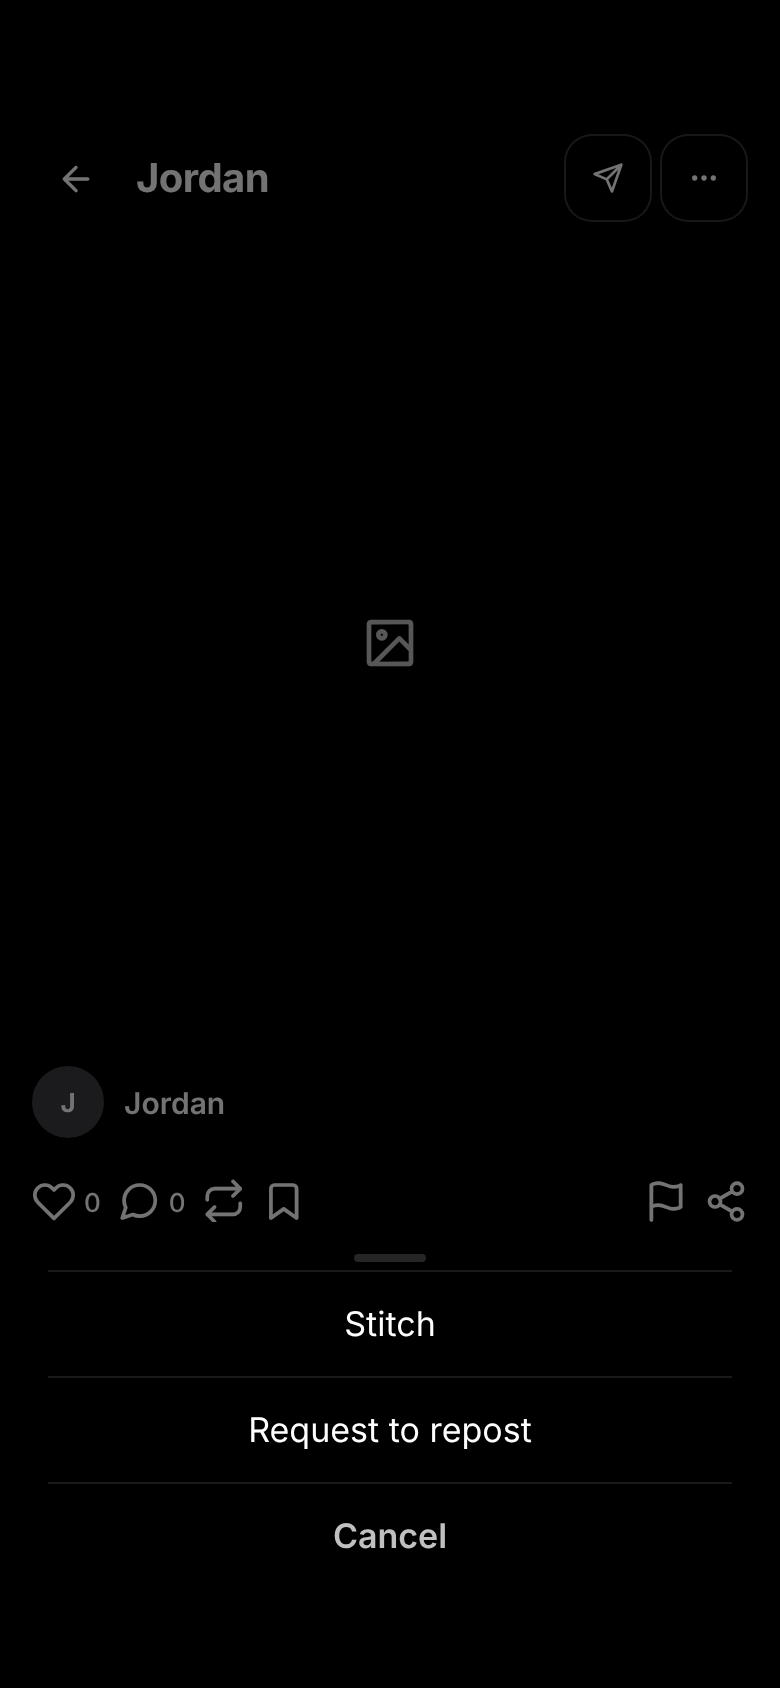
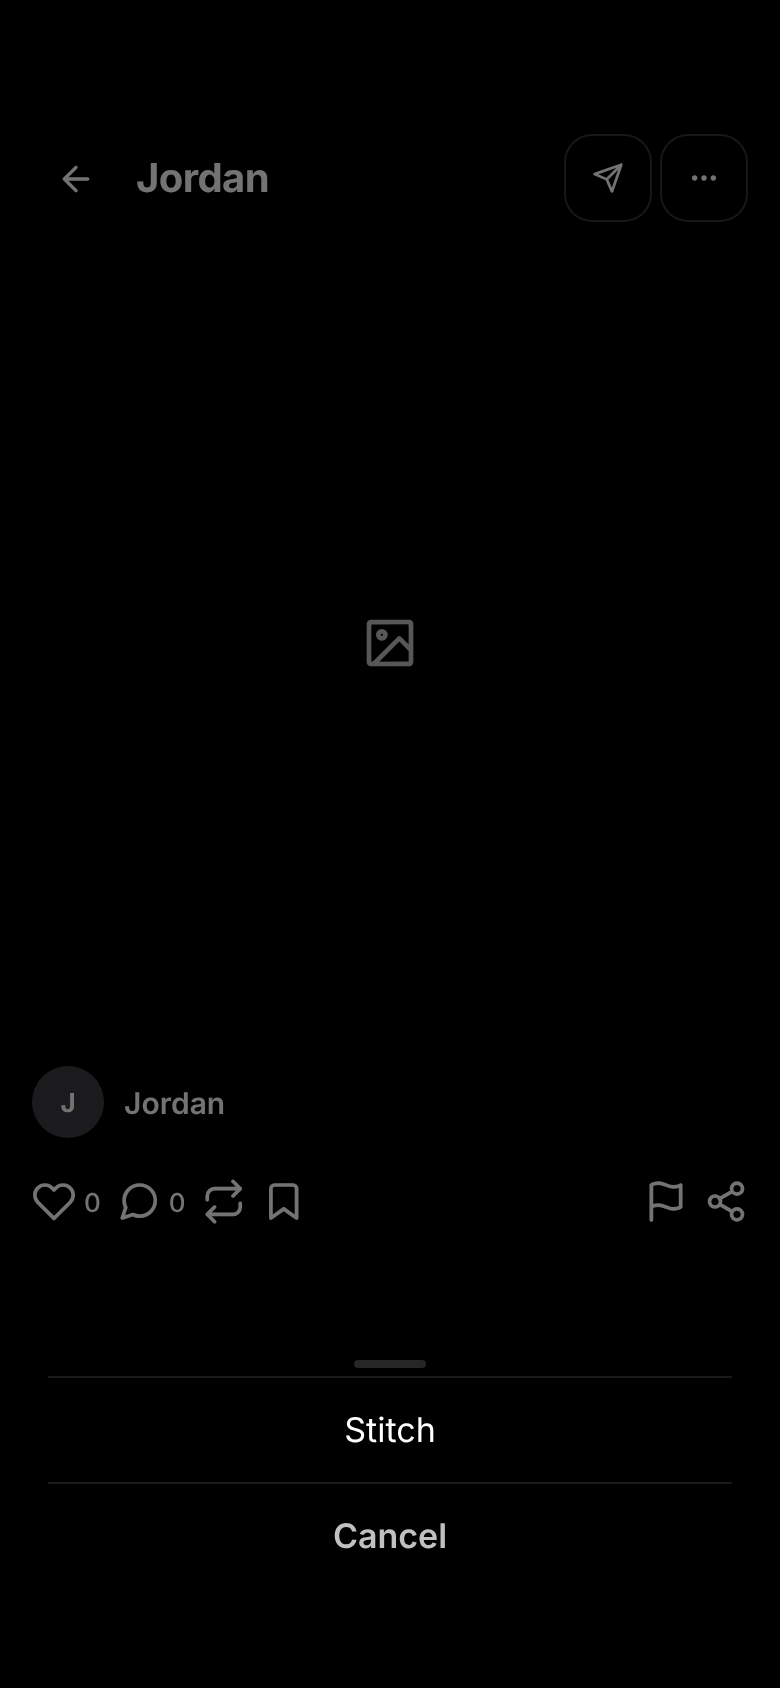
Fits: preview demo check at tap time; screenshot routes for repost eligibility
Claude-Session: https://claude.ai/code/session_01Muf8ZKCWRoVCeadctDVqcc

Changed region(s): [[0.3077, 0.7393, 0.6769, 0.8626]]

diff --git a/artifacts/mobile/components/social/PostFits.tsx b/artifacts/mobile/components/social/PostFits.tsx
@@ -44,10 +44,7 @@ export function usePostFits({ postId, isOwner }: {
     if (!valid || !postId) return;
     fitsService.stitch(postId).then((r) => { if (!cancelled) setStitch(r.stitch); }).catch(() => { if (!cancelled) setStitch(null); });
     fitsService.fitCheck(postId).then((r) => { if (!cancelled) setProduct(r.fitCheck.product); }).catch(() => { if (!cancelled) setProduct(null); });
-    if (brandViewer && isSellerDevPreview()) {
-      // The signed-out seller preview makes no API calls; only its demo dataset shows the item.
-      setRepostEligible(isPreviewDemoMode());
-    } else if (brandViewer) {
+    if (brandViewer && !isSellerDevPreview()) {
       fitsService.repostEligibility(postId)
         .then((r) => { if (!cancelled) { setRepostEligible(r.eligible); setRequest(r.request); } })
         .catch(() => { if (!cancelled) setRepostEligible(false); });
@@ -74,7 +71,10 @@ export function usePostFits({ postId, isOwner }: {
         buttons.push({ text: 'Tag product', onPress: tag });
       }
     }
-    if (brandViewer && repostEligible && request?.status !== 'approved' && request?.status !== 'declined') {
+    // The signed-out seller preview makes no API calls; there only its demo dataset
+    // (read at tap time — the web URL settles after mount) shows the item.
+    const eligible = isSellerDevPreview() ? isPreviewDemoMode() : repostEligible;
+    if (brandViewer && eligible && request?.status !== 'approved' && request?.status !== 'declined') {
       if (request?.status === 'pending') {
         buttons.push({
           text: 'Withdraw repost request',

diff --git a/artifacts/mobile/tests/fits.test.ts b/artifacts/mobile/tests/fits.test.ts
@@ -46,7 +46,8 @@ describe('fits helpers', () => {
   it('shows "Request to repost" only when the server says the post is eligible', () => {
     const hook = read('components/social/PostFits.tsx');
     expect(hook).toContain('fitsService.repostEligibility(postId)');
-    expect(hook).toContain('brandViewer && repostEligible');
+    expect(hook).toContain("const eligible = isSellerDevPreview() ? isPreviewDemoMode() : repostEligible;");
+    expect(hook).toContain('brandViewer && eligible');
     expect(hook).not.toContain('authorAccountType');
     expect(read('services/fitsService.ts')).toContain('/repost-eligibility');
   });

diff --git a/docs/pr-assets/fits/PR_BODY.md b/docs/pr-assets/fits/PR_BODY.md
@@ -49,6 +49,7 @@ All screenshots of our screens are in `docs/pr-assets/fits/ours/`.
     - `GET /api/products/:id/fit-checks` returns published posts only. It respects blocks in both directions and private accounts (followers only), and hides authors who are suspended or deleted.
   - Repost requests:
     - `POST /repost-requests` is brands only and for visible buyer posts only. Repeat taps are idempotent. A declined request can't be re-sent.
+    - `GET /posts/:postId/repost-eligibility` decides whether the ••• menu offers "Request to repost". It returns `eligible: true` only when the caller is a brand, the post is published and visible to them (blocks, private accounts, friends-only buyer posts), the author is a buyer, and it isn't their own post. It also returns the latest request state. `POST /repost-requests` keeps its `NOT_A_BUYER_POST` check as a backstop.
     - `GET /repost-requests/:id` (owner or requester), `GET /repost-requests/status?postId=`.
     - `POST /:id/respond` (owner: approve or decline) and `POST /:id/cancel` (requester). Both use a conditional update, so a request is answered at most once.
     - Approving writes the brand's `interactions` repost row and notifies the brand.
@@ -59,7 +60,7 @@ All screenshots of our screens are in `docs/pr-assets/fits/ours/`.
 - `app/fit-check-product.tsx`: the "Tag product" picker, listing verified purchases with search.
 - `app/repost-request.tsx`: Review → Approve / Decline sheet.
 - `components/products/FitChecksStrip.tsx`: the "Fit checks" row on the product page. It renders nothing when there are none.
-- `components/social/PostFits.tsx`: the post viewer's ••• menu (Stitch / Tag product / Change / Remove product / Request to repost / Withdraw) plus the "Stitch with @user" attribution and the "Fit check · product" chip.
+- `components/social/PostFits.tsx`: the post viewer's ••• menu (Stitch / Tag product / Change / Remove product / Request to repost / Withdraw) plus the "Stitch with @user" attribution and the "Fit check · product" chip. "Request to repost" shows only when the server's repost-eligibility check says yes; the client never guesses the author type. The signed-out seller web preview makes no API calls, so there the item appears only in its `&demo=1` dataset.
 - `services/fitsService.ts` (via `serviceRequest`) and `lib/fits.ts` (pure helpers).
 
 ## Touches existing UI
@@ -79,15 +80,16 @@ None. No new keys and no paid APIs. The signed-out web preview makes only public
 
 ## Tests
 
-- `cd artifacts/api-server && TEST_DATABASE_URL=postgres://postgres:postgres@127.0.0.1:5432/bt_test_fits2 pnpm exec vitest run src/lib/fitsRules.test.ts src/routes/__tests__/fits.integration.test.ts` gives **24/24 passed**. The integration tests cover:
+- `cd artifacts/api-server && TEST_DATABASE_URL=postgres://postgres:postgres@127.0.0.1:5432/bt_test_fits2 pnpm exec vitest run src/lib/fitsRules.test.ts src/routes/__tests__/fits.integration.test.ts` gives **25/25 passed**. The integration tests cover:
   - Purchase verification: bought, not bought, refunded, cancelled.
   - Ownership: link, unlink, buyers only.
   - Visibility: blocks both ways, private account vs follower, drafts hidden, friends-only buyer posts stay hidden.
   - Stitch: allowReposts, clip, link window, double link, attribution after the original is deleted.
+  - Repost eligibility: brand + visible buyer post → eligible, carrying the latest request state. Not eligible: buyers, brand posts, own posts, friends-only buyer posts, blocked brands. Signed out → 401.
   - Permission flow: brand repost and quote blocked before approval; request → notification → approve → repost row; per-brand approval; approval works with `allowReposts=false`; decline, cancel and re-request rules; only the owner can answer; answered requests are final; blocked brands get 404.
 - Every existing API suite that imports `routes/posts.ts` (19 files) passes except 23 tests in 3 files: `post-slide-validation`, `post-quotes` (3 "quote payloads on reads" tests) and `media-moderation` (1 test). The same 23 fail on `origin/dev` with `posts.ts` reverted, so these failures predate this PR.
 - `pnpm exec tsc -p tsconfig.json --noEmit` reports 0 errors in both api-server and mobile (after `pnpm exec tsc --build` for the libs).
-- Mobile: `pnpm exec vitest run tests/fits.test.ts` passes 7/7. Full mobile vitest (`pnpm exec vitest run` in artifacts/mobile): the origin/dev baseline has 88 failed / 4811 passed, and this branch has 87 failed / 4819 passed. Diffing the two FAIL lists shows **zero new failures**. `components/__tests__/ThreadShareSheet.structure.test.ts` still passes.
+- Mobile: `pnpm exec vitest run tests/fits.test.ts` passes 8/8. Full mobile vitest (`pnpm exec vitest run` in artifacts/mobile): the origin/dev baseline has 88 failed / 4811 passed, and this branch has 87 failed / 4819 passed. Diffing the two FAIL lists shows **zero new failures**. `components/__tests__/ThreadShareSheet.structure.test.ts` still passes.
 - Screenshots: `node scripts/f6-fits-screenshots.mjs [--skip-build]` (in artifacts/mobile) writes 13 shots at 390x844 to `docs/pr-assets/fits/ours/`, and I reviewed every one. In the buyer web preview, the post viewer shows its seeded local post, so its media area is the existing placeholder. Those shots verify the new chip, attribution and menu, not the media.
 
 ## Suggestions for Dev
@@ -95,5 +97,4 @@ None. No new keys and no paid APIs. The signed-out web preview makes only public
 - **Stitch is a linked post, not one merged video.** The original's clip plays in the trim step, and the stitch post carries the attribution and the clip range. The two videos are not concatenated server-side into one file. Doing that would need the compose pipeline, which belongs to the create-post owner.
 - Stitch uses the system camera (`expo-image-picker`) rather than the in-app camera, because the create-post camera and mode switcher belong to another session. Once that work lands, "Record" could open the in-app camera with the original as a picture-in-picture.
 - There is no "Drafts" button on the stitch post step (TikTok has one). A draft would have to keep its stitch link, which needs a draft-to-link migration.
-- `buyer-post-viewer`'s `loadPublicPost` marks every public post `authorAccountType: 'buyer'`. That is existing code and was left alone. As a result, a brand viewing a seller post through that path also sees "Request to repost", and the server answers with a clear `NOT_A_BUYER_POST` message.
 - There is no list of "Stitches of this post" yet. `post_stitches_source_idx` is in place for one.
